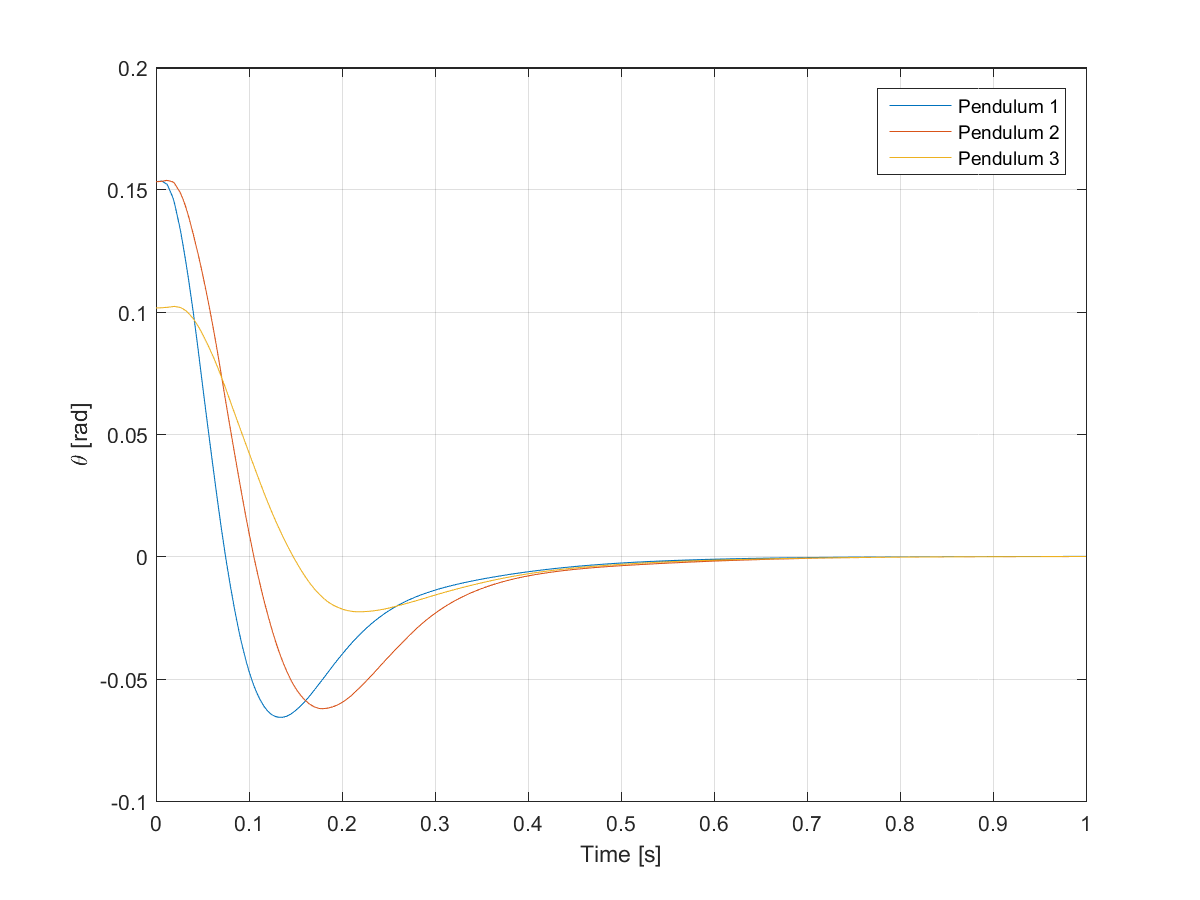
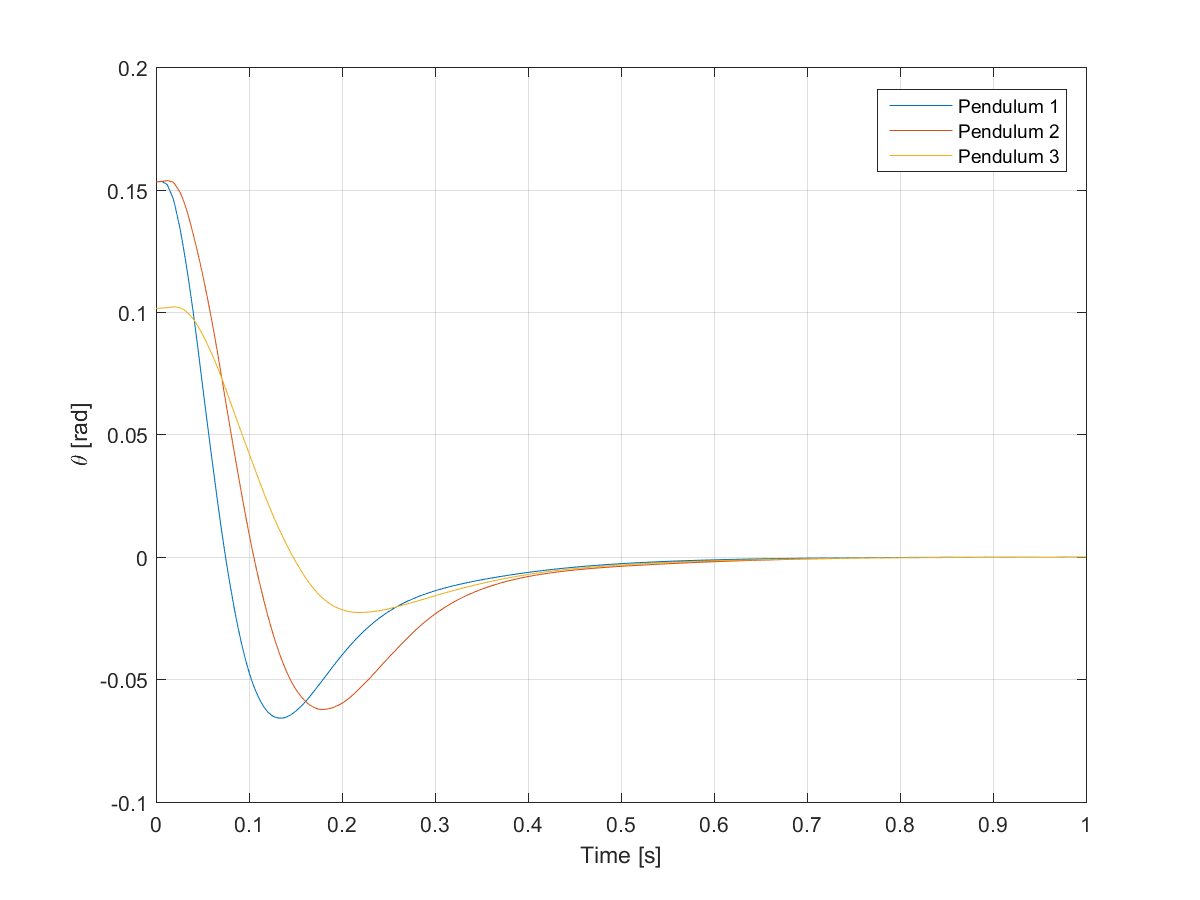
Added sch for edf

diff --git a/Homework2/Matlab/HW2_sources_Windows64bit/init_pend_three.m b/Homework2/Matlab/HW2_sources_Windows64bit/init_pend_three.m
@@ -1,9 +1,9 @@
  function init_pend_three
  
 global executionTime
-executionTime = 0.01 %executiontime for the controller
+executionTime = 0.006 %executiontime for the controller
 
-schedulingPolicy = 'prioDM' %the scheduling policy used in the simulation
+schedulingPolicy = 'prioEDF' %the scheduling policy used in the simulation
 ttInitKernel(schedulingPolicy);
 
 T = [0.02 0.029 0.035]; % Task periods
